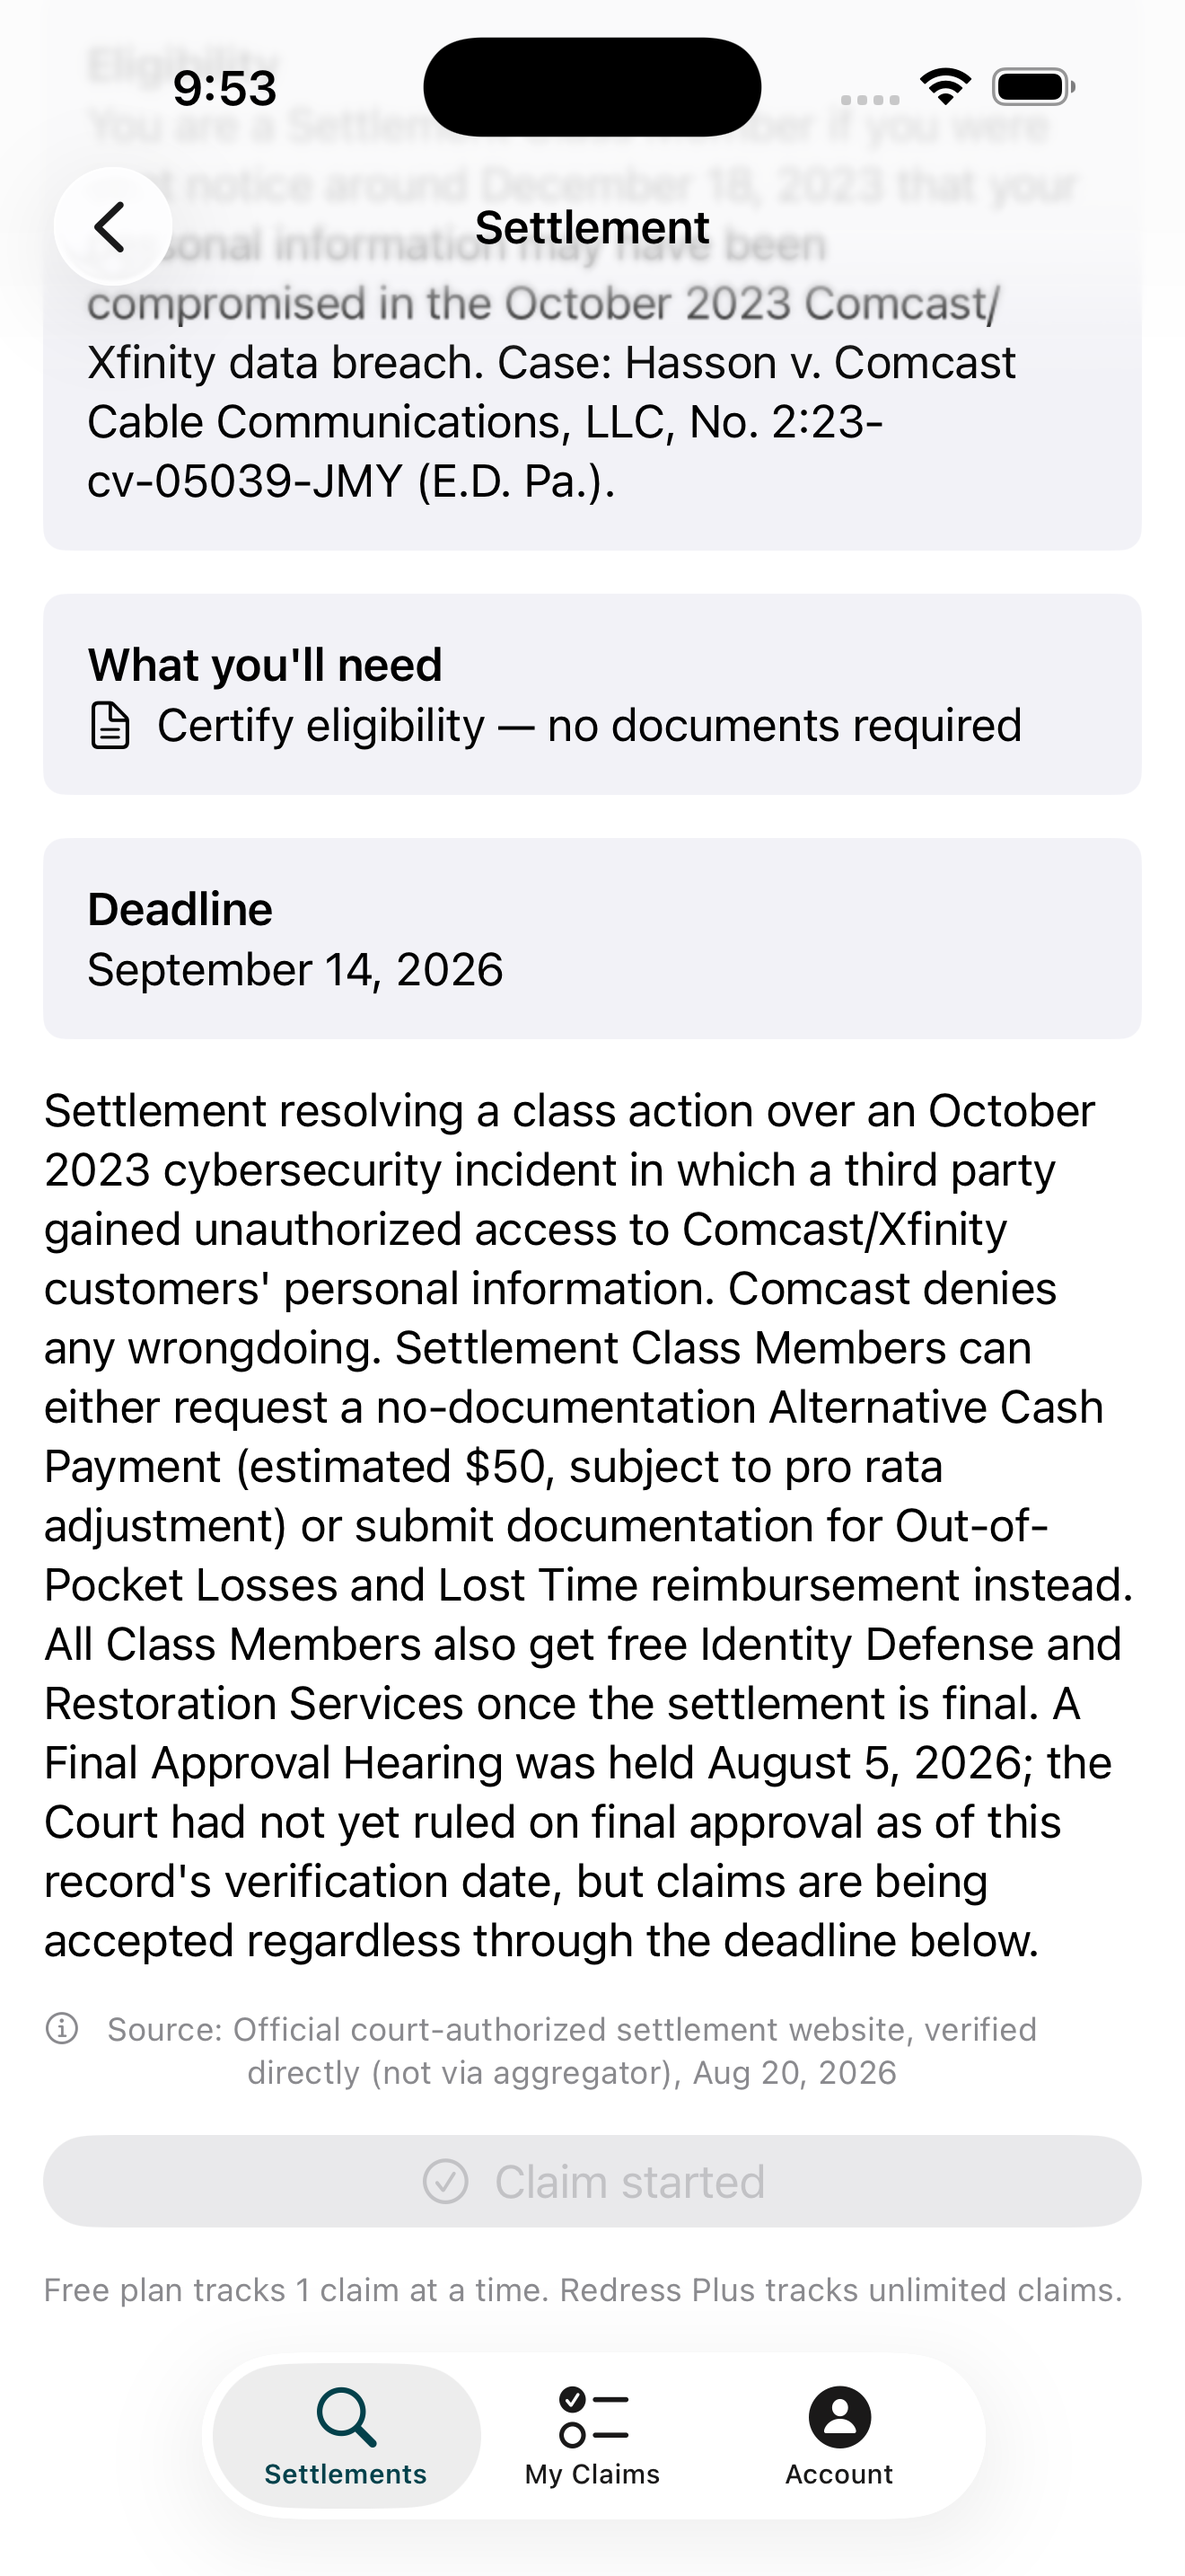
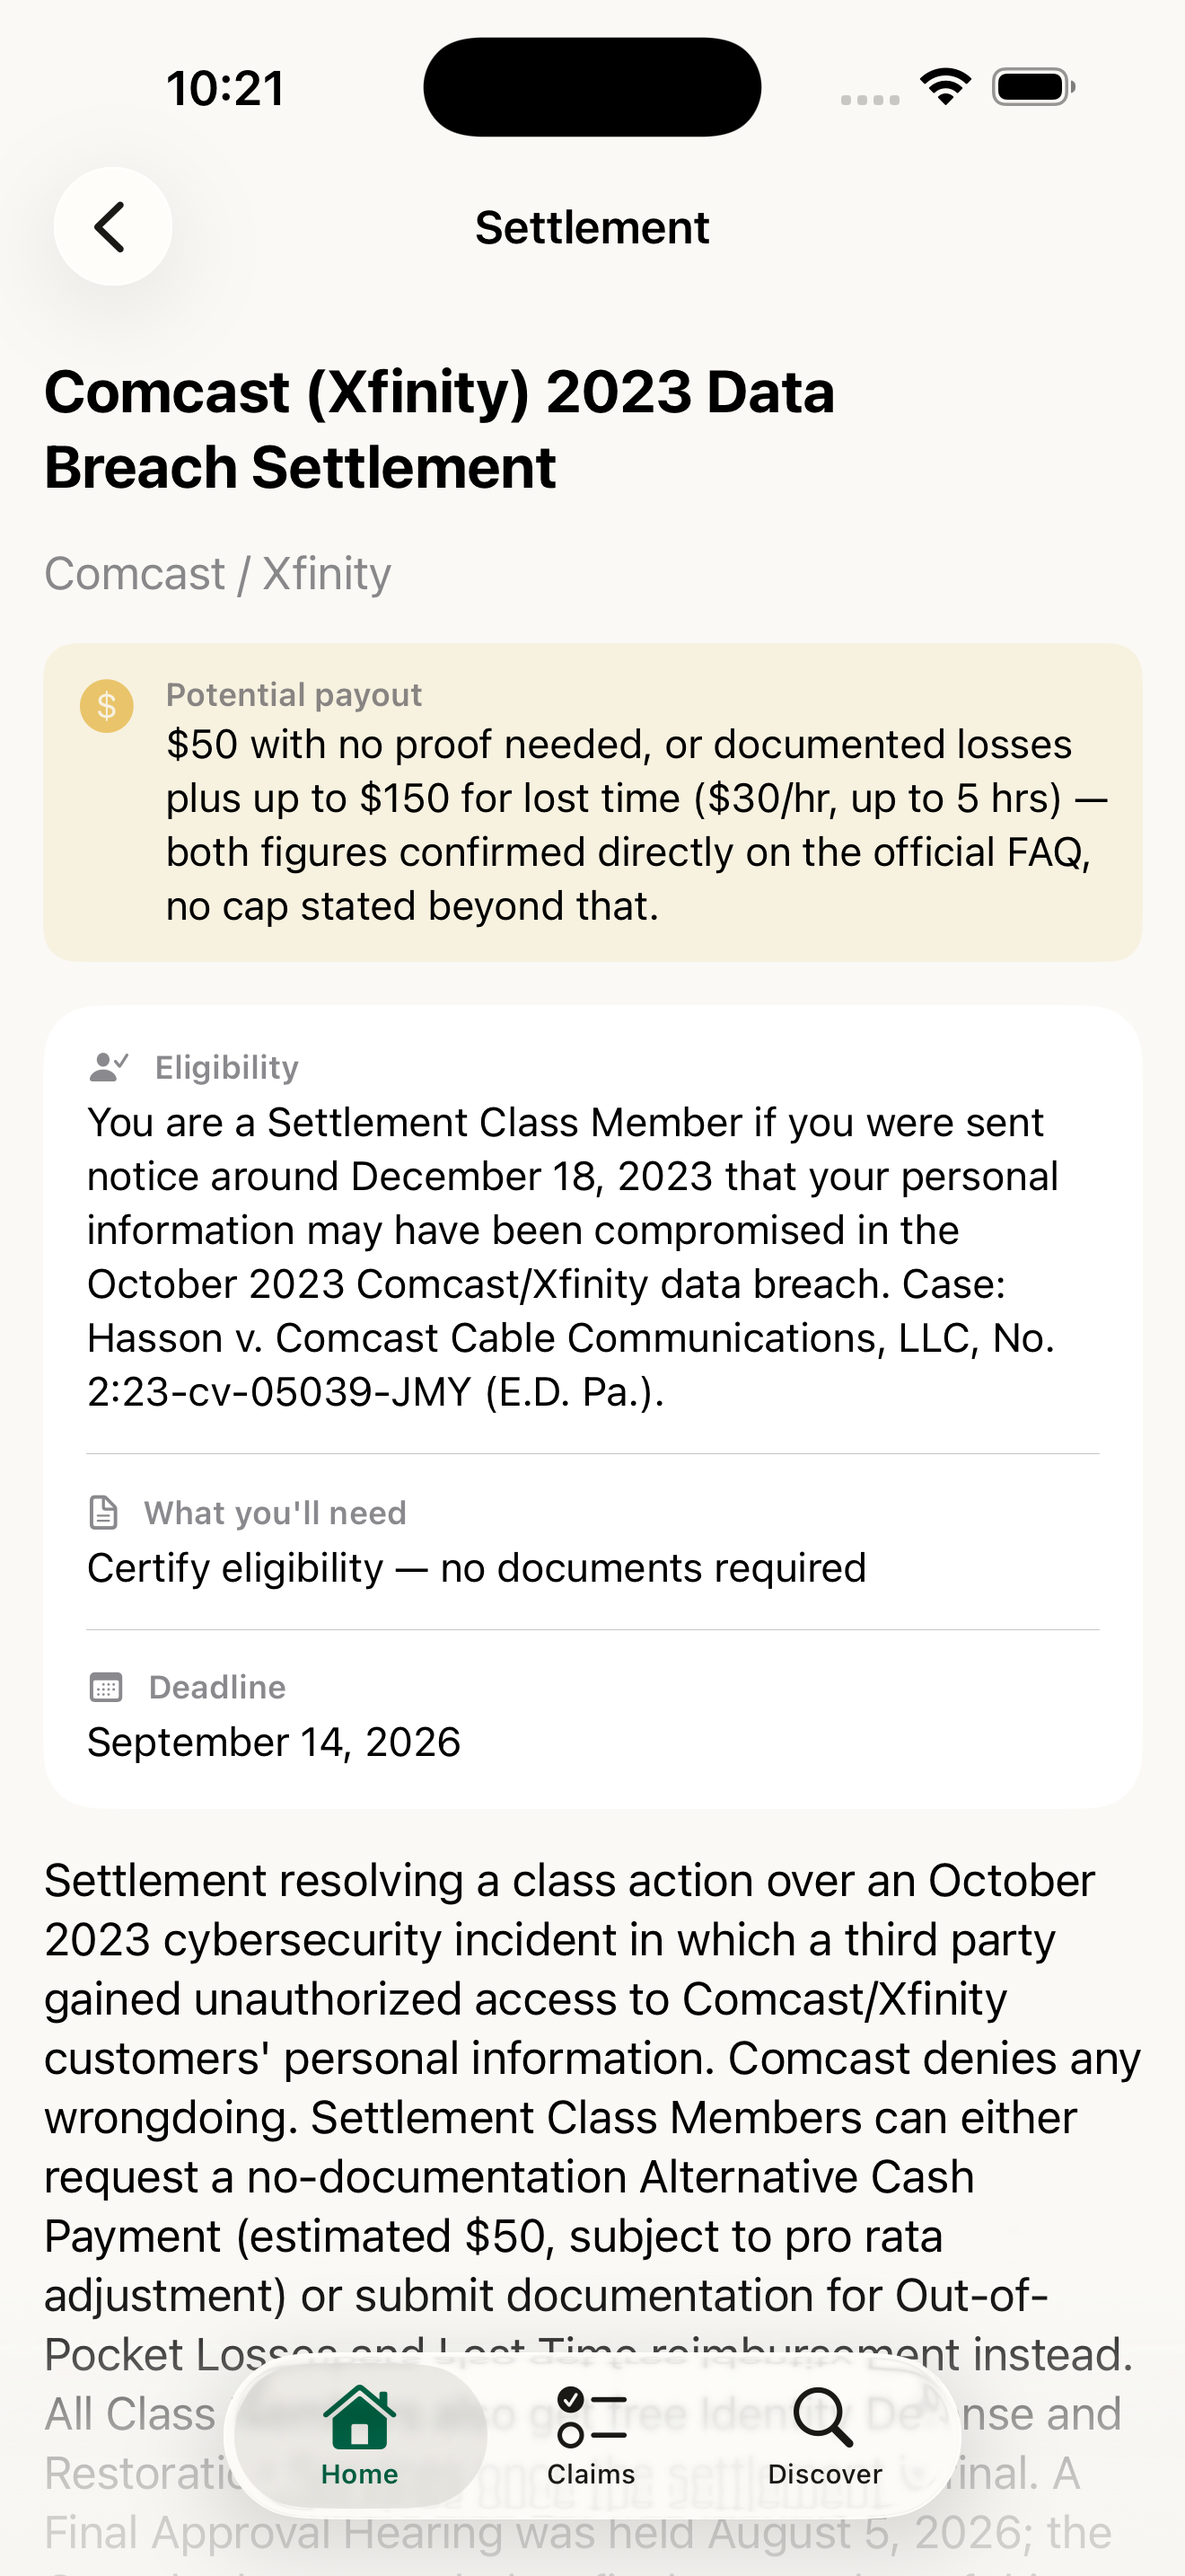
Begin App Store screenshot refresh: Home hero + updated settlement detail
Item 4 of the queue. The six 2026-08-21 screenshots no longer reflect
the app after this session's navigation redesign (4 tabs -> 3 +
toolbar Profile, Home replacing Settlements as the lead screen) and
brand system (Deep Emerald + Warm Ivory replacing dark teal).

Captured at real native resolution (1320x2868, verified via file(1),
not eyeballed) on the 6.9" simulator:
- 01_home.png (new) — the redesigned Home screen, replaces the old
  01_settlements.png browse-list hero now that Home is the answer to
  "what money can I claim?" instead of a settlements list.
- 02_settlement_detail.png (refreshed in place) — same content as
  before, now showing the gold payout callout and emerald icons.

Remaining four (claim detail, claims list, account/privacy, paywall)
are tracked as not-yet-refreshed in ASO_PLAYBOOK.md's Conversion
section rather than left silently stale — two are blocked on a
simulator input-delivery issue this session hit (tap calls stopped
registering app-wide, confirmed unrelated to the app itself via
30/30 passing tests and the same flow working earlier the same
session), two are just not yet captured.

Changed region(s): [[0.0311, 0.0931, 0.9629, 0.993], [0.1553, 0.031, 0.2485, 0.0621]]

diff --git a/AppStore/ASO_PLAYBOOK.md b/AppStore/ASO_PLAYBOOK.md
@@ -161,28 +161,36 @@ actually gets solved, not here.
 The bundle ID, project folder, and all in-app strings have been renamed from
 Recoup → Redress (`AvaResearchLLC.Redress`) and the project rebuilds clean.
 
-## 3 · Conversion — win the tap ✅ (icon + screenshots done, 2026-08-21)
+## 3 · Conversion — win the tap 🔄 (mid-refresh, 2026-08-23 — see below)
 
-- [x] **App icon** — shield + checkmark mark, teal-to-navy gradient,
-  generated programmatically (`Tools/make_icon.py`), legible at
-  home-screen size. Not a placeholder — real artwork, confirmed via
+- [x] **App icon** — shield + checkmark mark, **Deep Emerald → Ink
+  gradient, Warm Ivory shield, Deep Emerald checkmark** (regenerated
+  2026-08-23 from `Tools/make_icon.py` — the earlier teal-to-navy version
+  no longer matches the brand system). Real artwork, confirmed via
   Xcode's own iPad icon auto-generation from the single 1024 source.
-- [x] **Screenshots (6.9", 1320×2868 — verified exact, not eyeballed):**
-  six real captures in `AppStore/Screenshots/6.9-inch/`, real UI with real
-  data (the actual Comcast settlement, not sample content), no abstract
-  art:
-  1. `01_settlements.png` — Open Settlements hero
-  2. `02_settlement_detail.png` — eligibility/proof/deadline + source
-     provenance line ("per official settlement website, Aug 20 2026")
-  3. `03_claim_detail.png` — status picker, payout tracking, notes,
-     document vault (locked on Free), live deep-link to the real Kroll
-     portal
-  4. `04_myclaims.png` — claim list with the live status badge
-  5. `05_account_privacy.png` — the privacy pledge as the trust beat
-  6. `06_paywall.png` — the Free-vs-Plus comparison table
-  Deviates from the originally suggested order (privacy pledge was
-  planned as frame 3) because capturing in actual navigation order,
-  through the real app, was more honest than staging a specific sequence.
+- [ ] **Screenshots (6.9", 1320×2868 — verified exact, not eyeballed):**
+  mid-refresh against the Home-first navigation redesign and Deep
+  Emerald + Warm Ivory brand system — the six captured 2026-08-21 no
+  longer reflect the current app (old 4-tab nav, old teal color, and
+  `01_settlements.png` is gone — Home is the new lead shot, not a
+  Settlements browse list). Status as of 2026-08-23:
+  1. [x] `01_home.png` — **new**, replaces the old settlements-list hero.
+     "Your money." + honest count-based summary + Deadlines/New
+     Settlements sections, Deep Emerald throughout.
+  2. [x] `02_settlement_detail.png` — refreshed in place. Gold payout
+     callout, emerald icons, same eligibility/proof/deadline/provenance
+     content as before.
+  3. [ ] `03_claim_detail.png` — blocked mid-capture by a simulator
+     input-delivery issue unrelated to the app (tap calls stopped
+     registering session-wide, not specific to any one button; confirmed
+     via 30/30 passing automated tests and this exact flow working
+     earlier the same session). Resume once simulator interaction is
+     reliable again.
+  4. [ ] `04_myclaims.png` → rename `04_claims.png` — needs the same
+     started claim as #3, same blocker.
+  5. [ ] `05_account_privacy.png` — not blocked, just not yet re-captured
+     against the new colors/Profile-as-toolbar-sheet presentation.
+  6. [ ] `06_paywall.png` — not blocked, not yet re-captured.
 - [ ] **(Optional) App Preview:** 15–20s of starting a claim → adding a
   document → the deep-link handoff to the official portal. Not done.
 - **Product-page A/B test (after launch):** hero screenshot order first —
